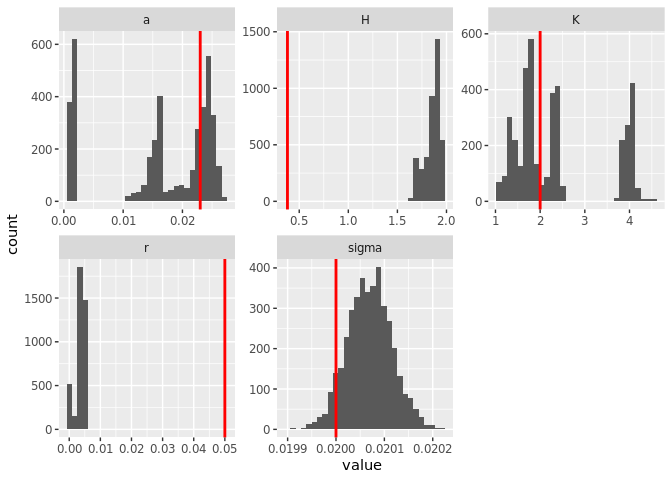
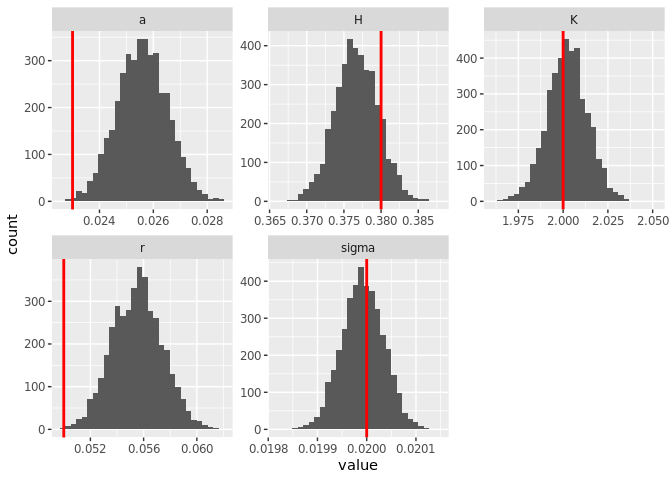
100 reps, narrow prior -- too narrow posteriors?

diff --git a/code/greta.md b/code/greta.md
@@ -59,7 +59,7 @@ Q <- 5
 K <- uniform(0, 10)
 H <- uniform(0,  2)
 a <- uniform(0, 1)
-r <- uniform(0, 10)
+r <- uniform(0, 1)
 #Q <- uniform(0, 10)
 sigma <- uniform(0, 1)
 
@@ -93,7 +93,7 @@ system.time({
         warmup ======                                  500/3000 | eta:  2m          
         warmup =======                                 550/3000 | eta:  2m          
         warmup ========                                600/3000 | eta:  2m          
-        warmup ========                                650/3000 | eta:  1m          
+        warmup ========                                650/3000 | eta:  2m          
         warmup =========                               700/3000 | eta:  1m          
         warmup ==========                              750/3000 | eta:  1m          
         warmup ==========                              800/3000 | eta:  1m          
@@ -111,31 +111,31 @@ system.time({
         warmup ==================                     1400/3000 | eta:  1m          
         warmup ==================                     1450/3000 | eta:  1m          
         warmup ===================                    1500/3000 | eta:  1m          
-        warmup ====================                   1550/3000 | eta: 49s          
-        warmup ====================                   1600/3000 | eta: 47s          
-        warmup =====================                  1650/3000 | eta: 45s          
-        warmup ======================                 1700/3000 | eta: 44s          
-        warmup ======================                 1750/3000 | eta: 42s          
-        warmup =======================                1800/3000 | eta: 40s          
-        warmup =======================                1850/3000 | eta: 38s          
-        warmup ========================               1900/3000 | eta: 37s          
-        warmup =========================              1950/3000 | eta: 35s          
-        warmup =========================              2000/3000 | eta: 33s          
-        warmup ==========================             2050/3000 | eta: 32s          
-        warmup ===========================            2100/3000 | eta: 30s          
-        warmup ===========================            2150/3000 | eta: 28s          
-        warmup ============================           2200/3000 | eta: 27s          
-        warmup ============================           2250/3000 | eta: 25s          
-        warmup =============================          2300/3000 | eta: 23s          
-        warmup ==============================         2350/3000 | eta: 21s          
-        warmup ==============================         2400/3000 | eta: 20s          
-        warmup ===============================        2450/3000 | eta: 18s          
-        warmup ================================       2500/3000 | eta: 16s          
-        warmup ================================       2550/3000 | eta: 15s          
-        warmup =================================      2600/3000 | eta: 13s          
-        warmup ==================================     2650/3000 | eta: 11s          
+        warmup ====================                   1550/3000 | eta:  1m          
+        warmup ====================                   1600/3000 | eta:  1m          
+        warmup =====================                  1650/3000 | eta: 48s          
+        warmup ======================                 1700/3000 | eta: 46s          
+        warmup ======================                 1750/3000 | eta: 44s          
+        warmup =======================                1800/3000 | eta: 43s          
+        warmup =======================                1850/3000 | eta: 41s          
+        warmup ========================               1900/3000 | eta: 39s          
+        warmup =========================              1950/3000 | eta: 37s          
+        warmup =========================              2000/3000 | eta: 35s          
+        warmup ==========================             2050/3000 | eta: 33s          
+        warmup ===========================            2100/3000 | eta: 32s          
+        warmup ===========================            2150/3000 | eta: 30s          
+        warmup ============================           2200/3000 | eta: 28s          
+        warmup ============================           2250/3000 | eta: 26s          
+        warmup =============================          2300/3000 | eta: 25s          
+        warmup ==============================         2350/3000 | eta: 23s          
+        warmup ==============================         2400/3000 | eta: 21s          
+        warmup ===============================        2450/3000 | eta: 19s          
+        warmup ================================       2500/3000 | eta: 17s          
+        warmup ================================       2550/3000 | eta: 16s          
+        warmup =================================      2600/3000 | eta: 14s          
+        warmup ==================================     2650/3000 | eta: 12s          
         warmup ==================================     2700/3000 | eta: 10s          
-        warmup ===================================    2750/3000 | eta:  8s          
+        warmup ===================================    2750/3000 | eta:  9s          
         warmup ===================================    2800/3000 | eta:  7s          
         warmup ====================================   2850/3000 | eta:  5s          
         warmup =====================================  2900/3000 | eta:  3s          
@@ -143,29 +143,29 @@ system.time({
         warmup ====================================== 3000/3000 | eta:  0s          
     ## 
       sampling                                           0/1000 | eta:  ?s          
-      sampling ==                                       50/1000 | eta: 35s          
-      sampling ====                                    100/1000 | eta: 41s          
-      sampling ======                                  150/1000 | eta: 32s          
-      sampling ========                                200/1000 | eta: 30s          
-      sampling ==========                              250/1000 | eta: 28s          
-      sampling ===========                             300/1000 | eta: 25s          
-      sampling =============                           350/1000 | eta: 23s          
-      sampling ===============                         400/1000 | eta: 21s          
-      sampling =================                       450/1000 | eta: 18s          
-      sampling ===================                     500/1000 | eta: 17s          
-      sampling =====================                   550/1000 | eta: 15s          
-      sampling =======================                 600/1000 | eta: 14s          
-      sampling =========================               650/1000 | eta: 12s          
+      sampling ==                                       50/1000 | eta: 36s          
+      sampling ====                                    100/1000 | eta: 42s          
+      sampling ======                                  150/1000 | eta: 33s          
+      sampling ========                                200/1000 | eta: 31s          
+      sampling ==========                              250/1000 | eta: 30s          
+      sampling ===========                             300/1000 | eta: 27s          
+      sampling =============                           350/1000 | eta: 24s          
+      sampling ===============                         400/1000 | eta: 22s          
+      sampling =================                       450/1000 | eta: 20s          
+      sampling ===================                     500/1000 | eta: 18s          
+      sampling =====================                   550/1000 | eta: 16s          
+      sampling =======================                 600/1000 | eta: 15s          
+      sampling =========================               650/1000 | eta: 13s          
       sampling ===========================             700/1000 | eta: 10s          
-      sampling ============================            750/1000 | eta:  8s          
-      sampling ==============================          800/1000 | eta:  6s          
+      sampling ============================            750/1000 | eta:  9s          
+      sampling ==============================          800/1000 | eta:  7s          
       sampling ================================        850/1000 | eta:  5s          
       sampling ==================================      900/1000 | eta:  3s          
       sampling ====================================    950/1000 | eta:  2s          
       sampling ====================================== 1000/1000 | eta:  0s
 
     ##    user  system elapsed 
-    ## 241.149  23.454 131.958
+    ## 253.532  24.926 139.148
 
 ``` r
 summary(draws)
@@ -180,21 +180,21 @@ summary(draws)
     ## 1. Empirical mean and standard deviation for each variable,
     ##    plus standard error of the mean:
     ## 
-    ##           Mean        SD  Naive SE Time-series SE
-    ## K     2.377414 9.926e-01 1.569e-02      3.791e-02
-    ## a     0.015953 9.158e-03 1.448e-04      2.732e-04
-    ## H     1.853113 8.069e-02 1.276e-03      8.372e-03
-    ## sigma 0.020069 4.612e-05 7.293e-07      1.801e-06
-    ## r     0.003648 1.433e-03 2.265e-05      4.819e-04
+    ##          Mean        SD  Naive SE Time-series SE
+    ## K     2.00228 1.138e-02 1.799e-04      3.170e-04
+    ## a     0.02559 9.353e-04 1.479e-05      5.510e-05
+    ## H     0.37668 2.915e-03 4.609e-05      1.043e-04
+    ## sigma 0.01999 4.272e-05 6.755e-07      1.309e-06
+    ## r     0.05552 1.894e-03 2.995e-05      1.168e-04
     ## 
     ## 2. Quantiles for each variable:
     ## 
-    ##            2.5%      25%      50%      75%    97.5%
-    ## K     1.2007307 1.665663 1.956015 2.806278 4.109700
-    ## a     0.0010956 0.008410 0.017736 0.024010 0.025971
-    ## H     1.6766729 1.811339 1.869534 1.919508 1.956462
-    ## sigma 0.0199804 0.020037 0.020070 0.020100 0.020162
-    ## r     0.0002593 0.003551 0.004071 0.004535 0.005325
+    ##          2.5%     25%     50%     75%   97.5%
+    ## K     1.97983 1.99465 2.00228 2.00949 2.02419
+    ## a     0.02377 0.02494 0.02559 0.02622 0.02740
+    ## H     0.37092 0.37475 0.37664 0.37867 0.38234
+    ## sigma 0.01991 0.01996 0.01999 0.02002 0.02007
+    ## r     0.05189 0.05415 0.05555 0.05679 0.05920
 
 ``` r
 #bayesplot::mcmc_trace(draws)
